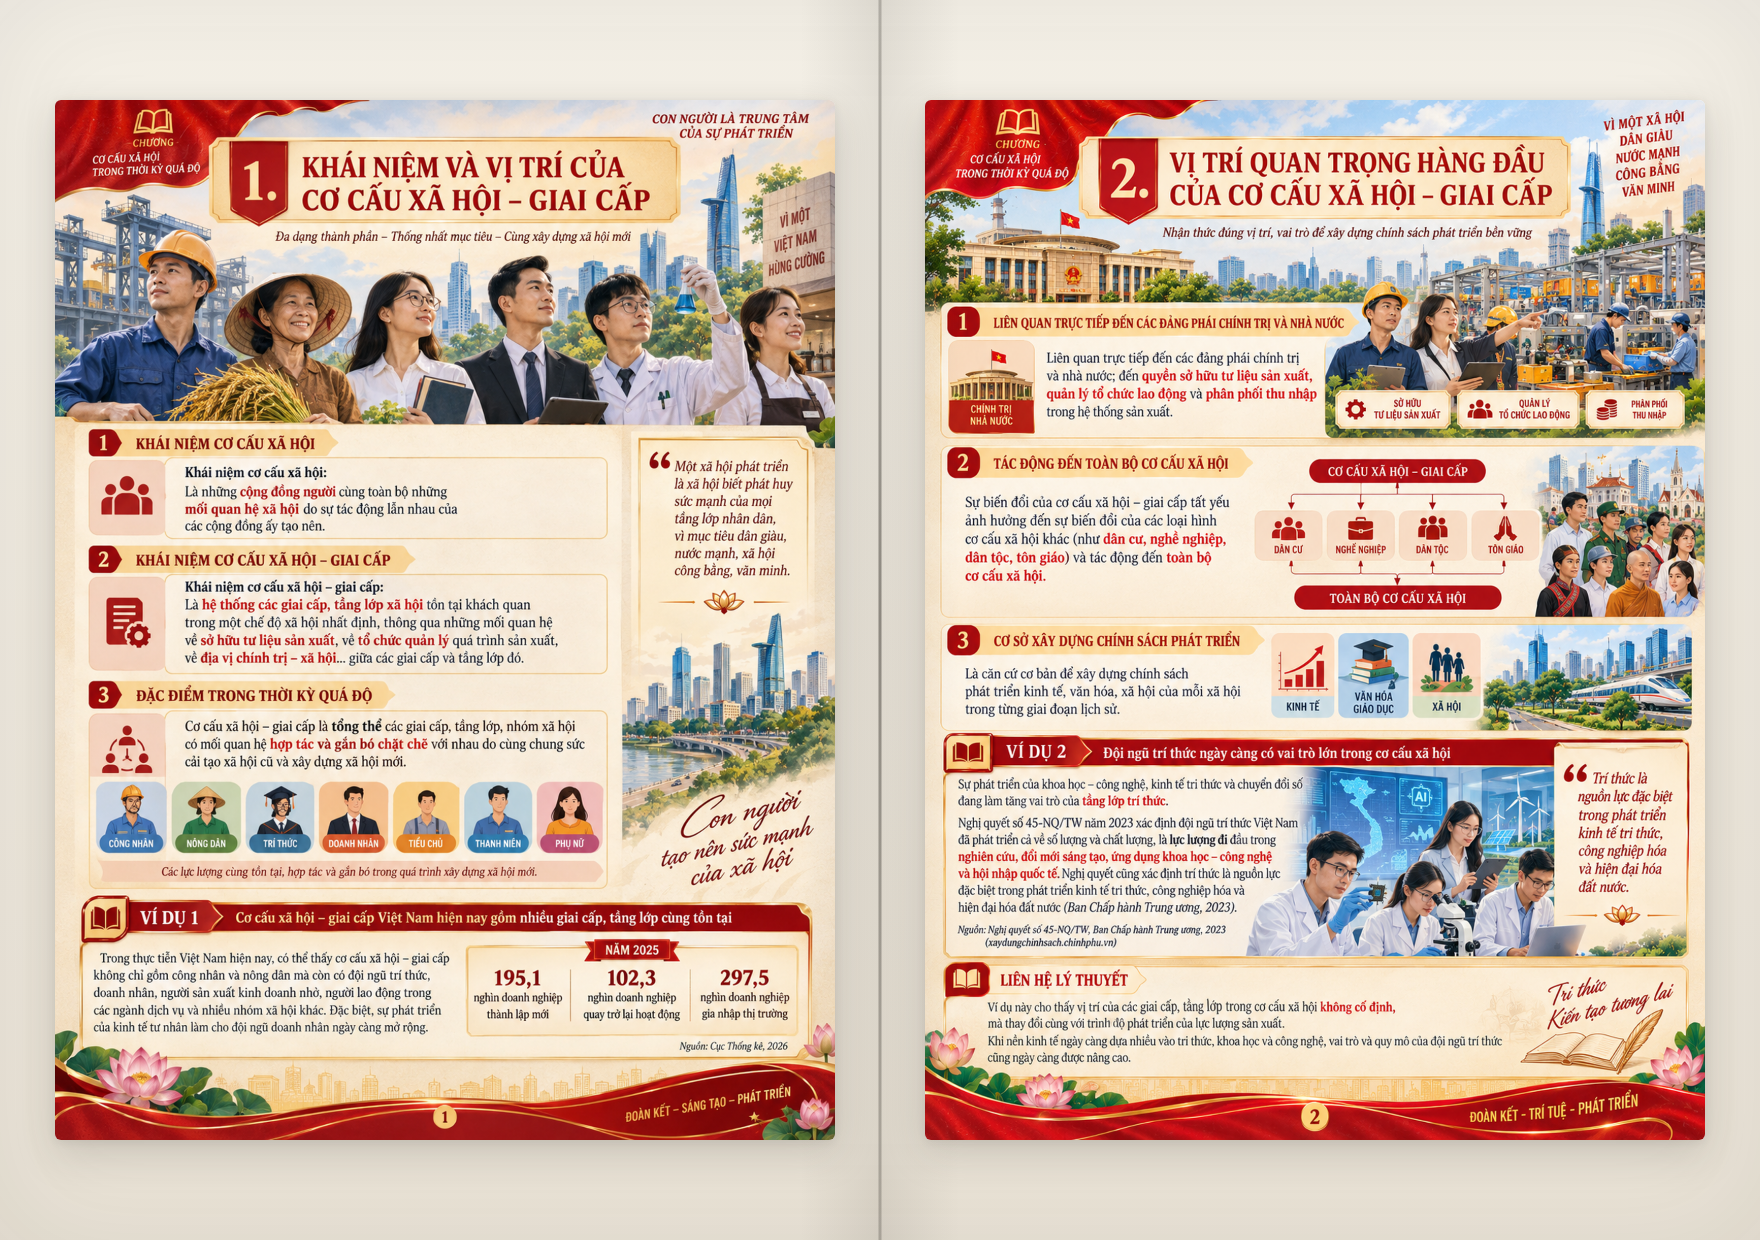
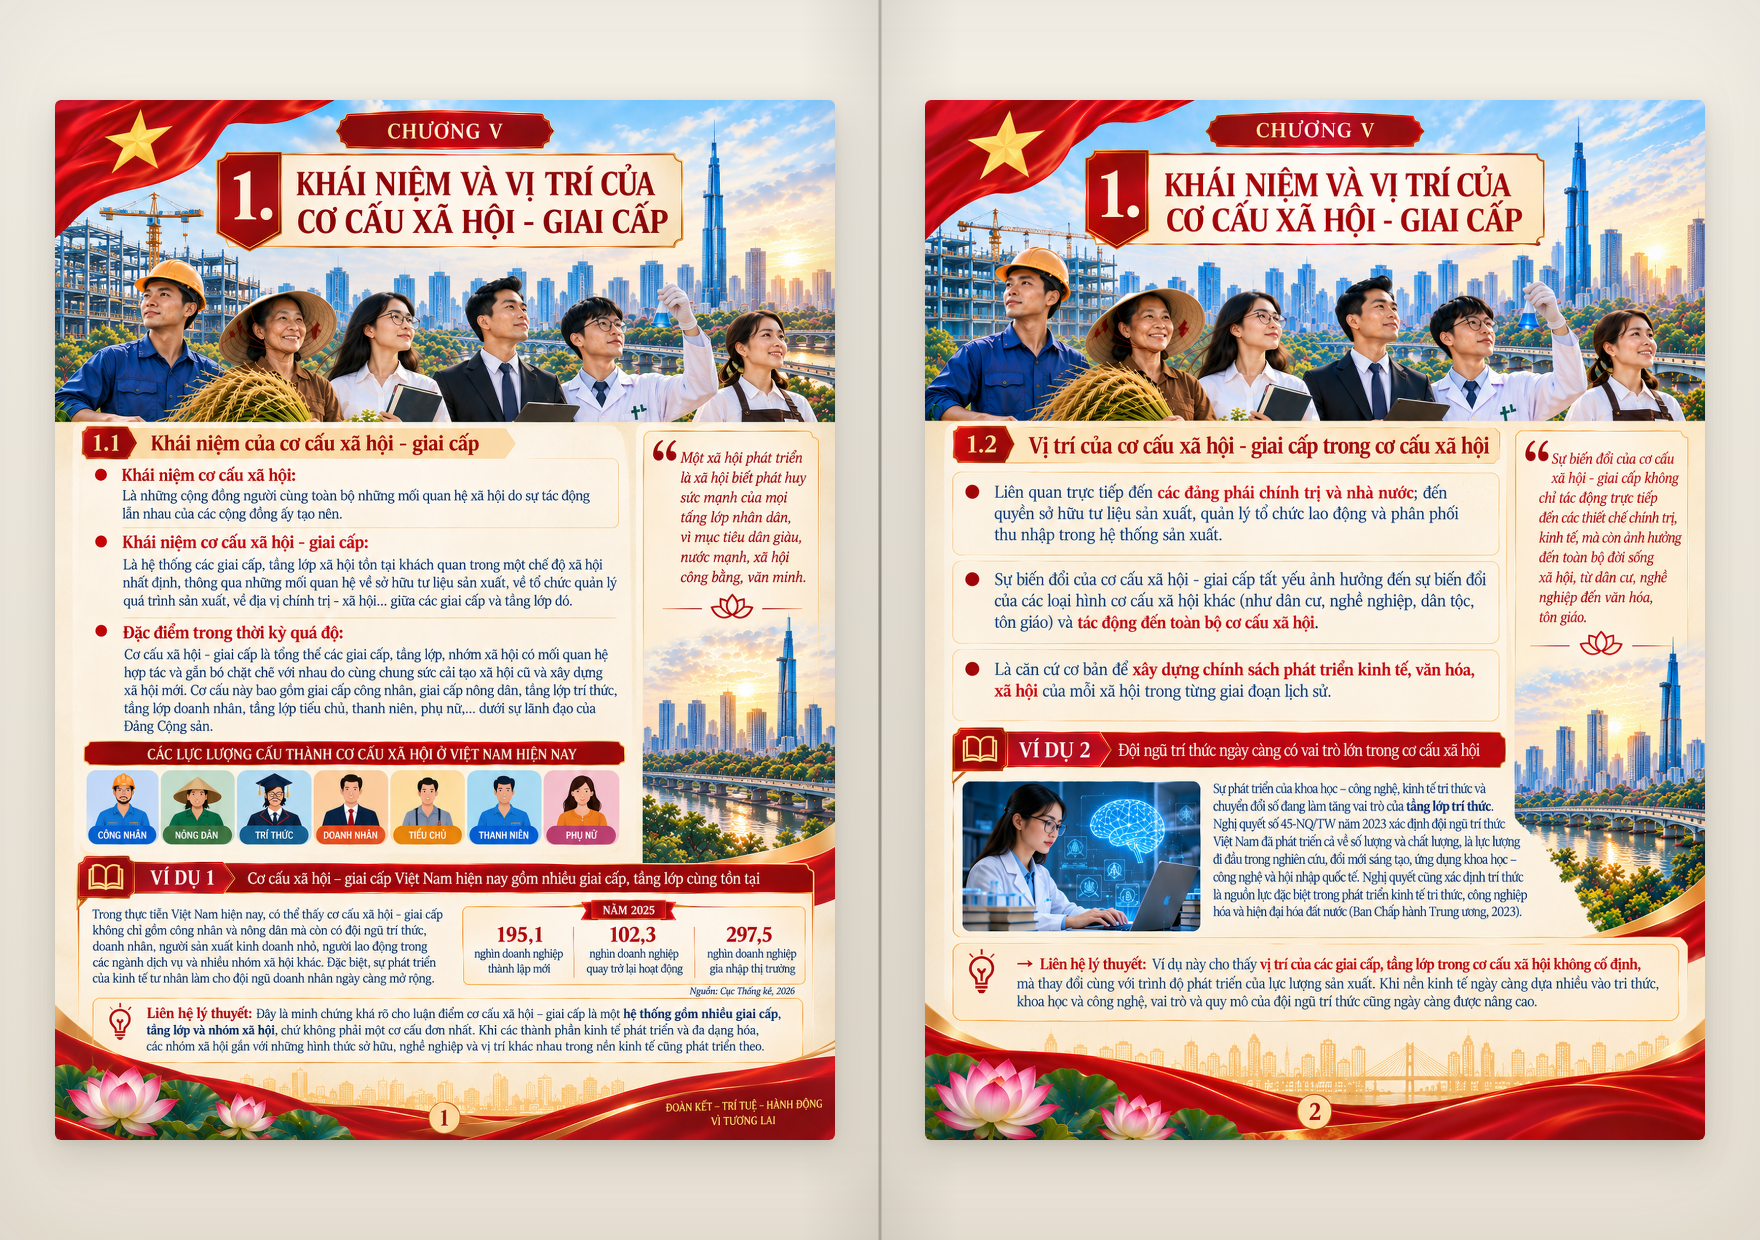
feat: update 3D book and sketchbook with 10 new Chapter 5 pages

diff --git a/public/landing-pages/meng-to-sketchbook.html b/public/landing-pages/meng-to-sketchbook.html
@@ -1618,11 +1618,11 @@ body {
 const Q=new URLSearchParams(location.search);
 const DIR='meng-to-sketchbook/';
 const PAGES=[
-  {file:'chapter5-spread-1.png', title:'Mục 1.1: Khái niệm Cơ cấu Xã hội - Giai cấp', place:'Phần 1'},
-  {file:'chapter5-spread-2.png', title:'Mục 1.2: Vị trí trong Cơ cấu Xã hội', place:'Phần 1'},
-  {file:'chapter5-spread-3.png', title:'Mục 2.1: Quy định bởi Cơ cấu Kinh tế', place:'Phần 2'},
-  {file:'chapter5-spread-4.png', title:'Mục 2.2: Biến đổi Phức tạp & Tầng lớp Mới', place:'Phần 2'},
-  {file:'chapter5-spread-5.png', title:'Mục 2.3: Vừa Đấu tranh, Vừa Liên minh', place:'Phần 2'}
+  {file:'chapter5-spread-1.png', title:'Bìa & Mục 1: Khái niệm & Vị trí Cơ cấu Xã hội - Giai cấp', place:'Mở Đầu'},
+  {file:'chapter5-spread-2.png', title:'Mục 1.1 & 1.2: Khái niệm & Vị trí trong Hệ thống Xã hội', place:'Phần 1'},
+  {file:'chapter5-spread-3.png', title:'Mục 2 & 2.1: Biến đổi có tính quy luật & Cơ cấu Kinh tế', place:'Phần 2'},
+  {file:'chapter5-spread-4.png', title:'Mục 2.2 & 2.3: Tầng lớp mới & Mối quan hệ Liên minh', place:'Phần 2'},
+  {file:'chapter5-spread-5.png', title:'Lời Cảm Ơn & Tổng Kết Chương 5', place:'Kết Thúc'}
 ];
 PAGES.forEach(p=>p.url=DIR+p.file);
 const M=PAGES.length, LAND=0;

diff --git a/src/book/UI.jsx b/src/book/UI.jsx
@@ -6,27 +6,32 @@ import { BOOKS } from "./content/bookContent.js";
 export const pageAtom = atom(0);
 export const viewModeAtom = atom("showcase"); // "showcase" | "reading"
 
-// Legacy 3D Book page texture pairs preserved from HCM202 repository
+// 3D Book page texture pairs for Chapter 5 (10 pages)
 export const legacyPages = [
   {
-    front: "/textures/hinh/hinh1.png",
-    back: "/textures/hinh/hinh2.png",
+    front: "/textures/chapter5/bia.png",
+    back: "/textures/chapter5/muc_1.png",
+    label: "Bìa",
   },
   {
-    front: "/textures/hinh/hinh3.png",
-    back: "/textures/hinh/hinh4.png",
+    front: "/textures/chapter5/1.1.png",
+    back: "/textures/chapter5/1.2.png",
+    label: "Mục 1.1–1.2",
   },
   {
-    front: "/textures/hinh/hinh5.png",
-    back: "/textures/hinh/hinh6.png",
+    front: "/textures/chapter5/muc_2.png",
+    back: "/textures/chapter5/2.1.png",
+    label: "Mục 2–2.1",
   },
   {
-    front: "/textures/hinh/hinh7.png",
-    back: "/textures/hinh/hinh8.png",
+    front: "/textures/chapter5/2.2.png",
+    back: "/textures/chapter5/2.3.png",
+    label: "Mục 2.2–2.3",
   },
   {
-    front: "/textures/hinh/hinh9.png",
-    back: "/textures/hinh/hinh10.png",
+    front: "/textures/chapter5/thanks.png",
+    back: "/textures/chapter5/end.png",
+    label: "Cảm ơn & Kết",
   },
 ];
 

diff --git a/src/book/content/bookContent.js b/src/book/content/bookContent.js
@@ -69,14 +69,29 @@ export const BOOKS = [
     ],
     pages: [
       {
-        front: "/textures/books/book1/bia_1.png",
-        back: "/textures/books/book1/1.png",
+        front: "/textures/chapter5/bia.png",
+        back: "/textures/chapter5/muc_1.png",
         label: "Bìa",
       },
       {
-        front: "/textures/books/book1/1.1.png",
-        back: "/textures/books/book1/end_1.png",
-        label: "Trang 1–1.1",
+        front: "/textures/chapter5/1.1.png",
+        back: "/textures/chapter5/1.2.png",
+        label: "Mục 1.1–1.2",
+      },
+      {
+        front: "/textures/chapter5/muc_2.png",
+        back: "/textures/chapter5/2.1.png",
+        label: "Mục 2–2.1",
+      },
+      {
+        front: "/textures/chapter5/2.2.png",
+        back: "/textures/chapter5/2.3.png",
+        label: "Mục 2.2–2.3",
+      },
+      {
+        front: "/textures/chapter5/thanks.png",
+        back: "/textures/chapter5/end.png",
+        label: "Cảm ơn & Kết",
       },
     ],
     sources: SOURCES,

diff --git a/src/book/content/bookContent.test.js b/src/book/content/bookContent.test.js
@@ -18,7 +18,7 @@ test('Volume readiness strictly reflects verified asset availability: all 3 volu
   assert.equal(isBookReady(2), true, 'Book III is ready with verified textures');
 
   // Verify page counts
-  assert.equal(BOOKS[0].pages.length, 2, 'Book I has 2 sheets (4 surfaces)');
+  assert.equal(BOOKS[0].pages.length, 5, 'Book I has 5 sheets (10 surfaces)');
   assert.equal(BOOKS[1].pages.length, 3, 'Book II has 3 sheets (6 surfaces)');
   assert.equal(BOOKS[2].pages.length, 2, 'Book III has 2 sheets (4 surfaces)');
 
